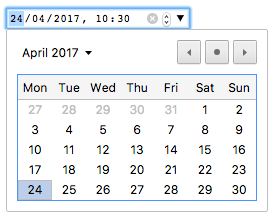
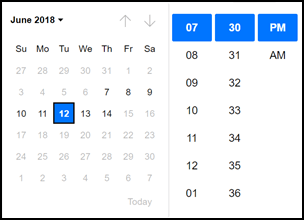
updating datetime-local (#8876)
* updating datetime-local

* compress image

diff --git a/files/en-us/web/html/element/input/datetime-local/index.html b/files/en-us/web/html/element/input/datetime-local/index.html
@@ -18,27 +18,19 @@ browser-compat: html.elements.input.input-datetime-local
 ---
 <div>{{HTMLRef("Input_types")}}</div>
 
-<p><span class="seoSummary">{{htmlelement("input")}} elements of type <strong><code>datetime-local</code></strong> create input controls that let the user easily enter both a date and a time, including the year, month, and day as well as the time in hours and minutes.</span></p>
+<p>{{htmlelement("input")}} elements of type <strong><code>datetime-local</code></strong> create input controls that let the user easily enter both a date and a time, including the year, month, and day as well as the time in hours and minutes.</p>
 
 <div>{{EmbedInteractiveExample("pages/tabbed/input-datetime-local.html", "tabbed-shorter")}}</div>
 
-<p>The control's UI varies in general from browser to browser; at the moment support is patchy, with Chrome/Opera/Edge and Safari 14.1 on desktop and most modern versions of mobile browsers having usable implementations. In other browsers, these degrade gracefully to simple <code><a href="/en-US/docs/Web/HTML/Element/input/text">&lt;input type="text"&gt;</a></code> controls.</p>
+<p>The control's UI varies in general from browser to browser. In browsers with no support, these degrade gracefully to simple <code><a href="/en-US/docs/Web/HTML/Element/input/text">&lt;input type="text"&gt;</a></code> controls. The following image shows the UI in Chrome 93.</p>
 
-<p>The control is intended to represent <em>a local date and time</em>, not necessarily <em>the user's local date and time</em>. In other words, an implementation should allow any valid combination of year, month, day, hour, and minute - even if such a combination is invalid in the user's local time zone (such as times within a daylight saving time spring-forward transition gap). Some mobile browsers (particularly on iOS) do not currently implement this correctly.</p>
+<p><img alt="Date and time picker UI in Chrome." src="datetime-local-chrome.png" style="display: block; margin: 0px auto;"></p>
+
+<p>The control is intended to represent <em>a local date and time</em>, not necessarily <em>the user's local date and time</em>. In other words, an implementation should allow any valid combination of year, month, day, hour, and minute—even if such a combination is invalid in the user's local time zone (such as times within a daylight saving time spring-forward transition gap). Some mobile browsers (particularly on iOS) do not currently implement this correctly.</p>
 
 <p>Because of the limited browser support for <code>datetime-local</code>, and the variations in how the inputs work, it may currently still be best to use a framework or library to present these, or to use a custom input of your own. Another option is to use separate <code>date</code> and <code>time</code> inputs, each of which is more widely supported than <code>datetime-local</code>.</p>
 
 <p>Some browsers may resort to a text-only input element that validates that the results are legitimate date/time values before letting them be delivered to the server, as well, but you shouldn't rely on this behavior since you can't easily predict it.</p>
-
-<p>For those of you not using a supporting browser, the Chrome/Opera <code>datetime-local</code> control looks like the below screenshot. Clicking the down arrow on the right hand side brings up a date picker to allow you to choose a date; you have to enter the time manually.</p>
-
-<p><img alt="" src="datetime-local-chrome.png" style="display: block; margin: 0px auto;"></p>
-
-<p>The Edge <code>datetime-local</code> control looks like the below; clicking the date and the time parts of the value bring up two separate pickers for you, so you can easily set both the date and the time. This is somewhat like having <code>date</code> and <code>time</code> widgets both created for you and merged into one.</p>
-
-<p><img alt="" src="datetime-local-picker-edge1.png" style="display: block; margin: 0px auto;"></p>
-
-<p><img alt="" src="datetime-local-picker-edge2.png" style="display: block; margin: 0px auto;"></p>
 
 <table class="properties">
  <tbody>
@@ -255,11 +247,7 @@ input:valid+span:after {
 
 <h2 id="Handling_browser_support">Handling browser support</h2>
 
-<p>As mentioned above, the major problem with using datetime-local inputs at the time of writing is browser support — Chrome/Opera/Edge and Safari support it on desktop, and most modern browsers on mobile. As an example, the <code>datetime-local</code> picker on Firefox for Android looks like this:</p>
-
-<p><img alt="" src="datetime-local-fxa.png" style="display: block; margin: 0px auto;"></p>
-
-<p>Non-supporting browsers gracefully degrade to a text input, but this creates problems both in terms of consistency of user interface (the presented control will be different), and data handling.</p>
+<p>As mentioned above, non-supporting browsers gracefully degrade to a text input, but this creates problems both in terms of consistency of user interface (the presented control will be different), and data handling.</p>
 
 <p>The second problem is the most serious; as we mentioned earlier, with a <code>datetime-local</code> input, the actual value is always normalized to the format <code>YYYY-MM-DDThh:mm</code>. With a text input on the other hand, by default the browser has no recognition of what format the date should be in, and there are lots of different ways in which people write dates and times, for example:</p>
 

diff --git a/files/en-us/mozilla/firefox/releases/93/index.html b/files/en-us/mozilla/firefox/releases/93/index.html
@@ -17,6 +17,10 @@ tags:
 
 <h3 id="HTML">HTML</h3>
 
+<ul>
+  <li>The UI for <a href="/docs/Web/HTML/Element/input/datetime-local"><code>&lt;input type="datetime-local"&gt;</code></a> has been implemented. ({{bug(1283388)}}).</li>
+</ul>
+
 <h4 id="removals_html">Removals</h4>
 
 <h3 id="CSS">CSS</h3>
